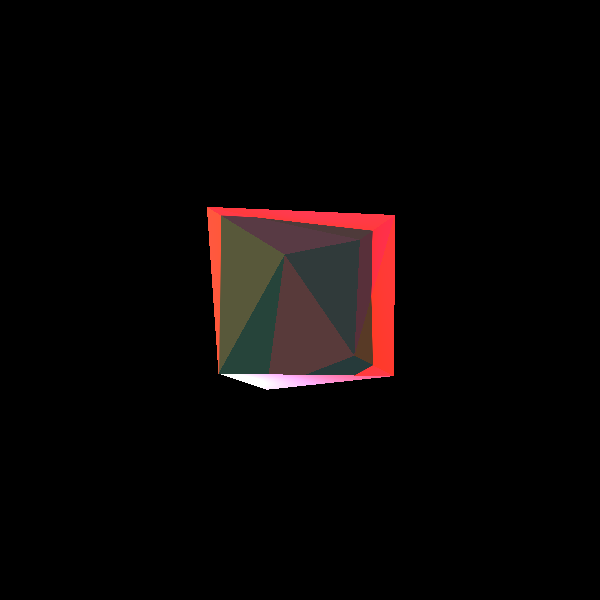
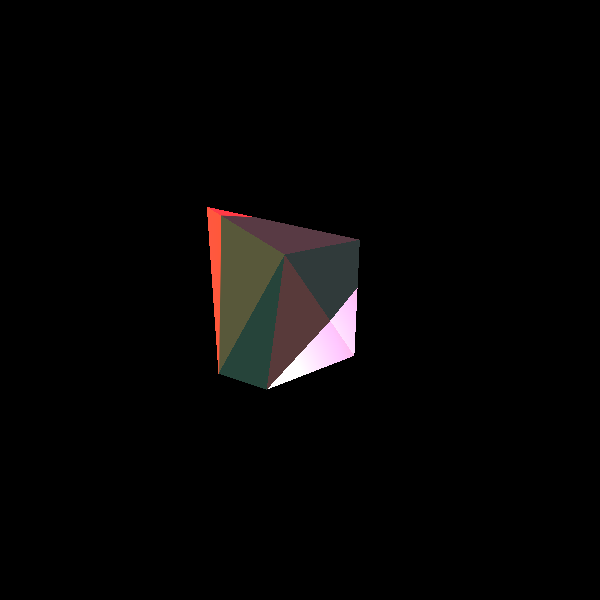
stage 8 fix

Changed region(s): [[0.36, 0.33, 0.66, 0.66]]

diff --git a/unitTests/MiniProj1/hotAirBaloon.java b/unitTests/MiniProj1/hotAirBaloon.java
@@ -4,6 +4,7 @@ import geometries.Sphere;
 import geometries.Triangle;
 import lighting.AmbientLight;
 import lighting.DirectionalLight;
+import lighting.PointLight;
 import lighting.SpotLight;
 import org.junit.jupiter.api.Test;
 import primitives.Color;
@@ -166,17 +167,23 @@ public class hotAirBaloon {
         C=new Point(C.getY()-2,C.getZ()-50,C.getX());
         Point C1=new Point(C.getX()-0.5,C.getY(),C.getZ());
         Point C2=new Point(C.getX(),C.getY(),C.getZ());
+        Point CBorderSide = new Point(C.getX()+0.3, C.getY(), C.getZ());
 
         D=new Point(D.getY(),D.getZ()-50,D.getX());
         Point D1=new Point(D.getX()+0.5,D.getY(),D.getZ());
+        Point DBorderSide = new Point(D.getX()-0.3, D.getY(), D.getZ());
 
-        F=new Point(F.getY(),F.getZ()-50, F.getX());
+
+        F=new Point(F.getY(),F.getZ()-50.5, F.getX());
         Point F1=new Point(F.getX()-0.5,F.getY(),F.getZ());
-        Point FBorder=new Point(F.getX(),F.getY()+0.5,F.getZ());
+        Point FBorder=new Point(F.getX(),F.getY()+0.4,F.getZ());
+        Point FBorderSide = new Point(F.getX()+0.3, F.getY(), F.getZ());
 
         G=new Point(G.getY(),G.getZ()-50, G.getX());
         Point G1=new Point(G.getX()+0.5,G.getY(),G.getZ());
-        Point GBorder=new Point(G.getX(),G.getY()+0.5,G.getZ());
+        Point GBorder=new Point(G.getX(),G.getY()+0.4,G.getZ());
+        Point GBorderSide = new Point(G.getX()-0.3, G.getY(), G.getZ());
+
 
 
         //FRONT RIGHT
@@ -194,35 +201,42 @@ public class hotAirBaloon {
         Triangle rLittle2T=new Triangle(rLittle2,F1,rLittle1);
         Triangle lLittle1T=new Triangle(lLittle1,lLittle2,G1);
         Triangle lLittle2T=new Triangle(G,G1,lLittle2);
-        Triangle borderR1=new Triangle(C,C1,F);
-        Triangle borderR2=new Triangle(F1,C1,F);
-        Triangle borderL1=new Triangle(G,G1,D1);
-        Triangle borderL2=new Triangle(G,D,D1);
+
+        Triangle borderR1=new Triangle(CBorderSide,C1,FBorderSide);
+        Triangle borderR2=new Triangle(F1,C1,FBorderSide);
+
+        Triangle borderL1=new Triangle(GBorderSide,G1,D1);
+        Triangle borderL2=new Triangle(GBorderSide,DBorderSide,D1);
+
         Triangle borderBack1=new Triangle(G,GBorder,F);
         Triangle borderBack2=new Triangle(F,FBorder,GBorder);
 
 
-
-
-
         scene4.geometries.add( //
-                T1.setMaterial(new Material().setkD(0.5).setkS(0.5).setnShininess(100)).setEmission(new Color(500, 20, 30)), //
+                T1.setMaterial(new Material().setkD(0.7).setkS(0.5).setnShininess(100)).setEmission(new Color(500, 20, 30)), //
+                T2.setMaterial(new Material().setkD(0.7).setkS(0.5).setnShininess(100)).setEmission(new Color(520, 40, 50)), //
 
-                T2.setMaterial(new Material().setkD(0.5).setkS(0.5).setnShininess(100)).setEmission(new Color(520, 40, 50)), //
-                T3.setMaterial(new Material().setkD(0.5).setkS(0.5).setnShininess(100)).setEmission(new Color(550, 70, 80)), //
-                T4.setMaterial(new Material().setkD(0.5).setkS(0.5).setnShininess(100)).setEmission(new Color(500, 20, 30)),
+                T3.setMaterial(new Material().setkD(0.4).setkS(0.5).setnShininess(100)).setEmission(new Color(550, 70, 80)), //
+                T4.setMaterial(new Material().setkD(0.4).setkS(0.5).setnShininess(100)).setEmission(new Color(500, 20, 30)),
+
                 L1.setMaterial(new Material().setkD(0.5).setkS(0.5).setnShininess(100)).setEmission(new Color(WHITE)),
                 L2.setMaterial(new Material().setkD(0.5).setkS(0.5).setnShininess(100)).setEmission(new Color(WHITE)),
+
                 R1.setMaterial(new Material().setkD(0.5).setkS(0.5).setnShininess(100)).setEmission(new Color(WHITE)),
                 R2.setMaterial(new Material().setkD(0.5).setkS(0.5).setnShininess(100)).setEmission(new Color(WHITE)),
-                borderR1.setMaterial(new Material().setkD(0.5).setkS(0.5).setnShininess(100)).setEmission(new Color(BLACK)), //
-                borderR2.setMaterial(new Material().setkD(0.5).setkS(0.5).setnShininess(100)).setEmission(new Color(BLACK)), //
-                borderL1.setMaterial(new Material().setkD(0.5).setkS(0.5).setnShininess(100)).setEmission(new Color(BLACK)), //
-                borderL2.setMaterial(new Material().setkD(0.5).setkS(0.5).setnShininess(100)).setEmission(new Color(BLACK)), //
-                borderBack1.setMaterial(new Material().setkD(0.5).setkS(0.5).setnShininess(100)).setEmission(new Color(BLACK)), //
-                borderBack2.setMaterial(new Material().setkD(0.5).setkS(0.5).setnShininess(100)).setEmission(new Color(BLACK)), //
+
+                borderR1.setMaterial(new Material().setkD(1.2).setkS(0.5).setnShininess(100)).setEmission(new Color(YELLOW)), //
+                borderR2.setMaterial(new Material().setkD(1.2).setkS(0.5).setnShininess(100)).setEmission(new Color(YELLOW)), //
+
+                borderL1.setMaterial(new Material().setkD(1.2).setkS(0.5).setnShininess(100)).setEmission(new Color(YELLOW)), //
+                borderL2.setMaterial(new Material().setkD(1.2).setkS(0.5).setnShininess(100)).setEmission(new Color(YELLOW)), //
+
+                borderBack1.setMaterial(new Material().setkD(0.5).setkS(0.5).setnShininess(100)).setEmission(new Color(YELLOW)), //
+                borderBack2.setMaterial(new Material().setkD(0.5).setkS(0.5).setnShininess(100)).setEmission(new Color(YELLOW)), //
+
                 rLittle1T.setMaterial(new Material().setkD(0.5).setkS(0.5).setnShininess(100)).setEmission(new Color(WHITE)),
                 rLittle2T.setMaterial(new Material().setkD(0.5).setkS(0.5).setnShininess(100)).setEmission(new Color(WHITE)),
+
                 lLittle1T.setMaterial(new Material().setkD(0.5).setkS(0.5).setnShininess(100)).setEmission(new Color(WHITE)),
                 lLittle2T.setMaterial(new Material().setkD(0.5).setkS(0.5).setnShininess(100)).setEmission(new Color(WHITE)),
 
@@ -231,10 +245,17 @@ public class hotAirBaloon {
                         .setMaterial(new Material().setkD(0.3).setkS(0.05).setnShininess(100).setkT(0.3))
 
                 );
-        scene4.lights.add(new  SpotLight(new Color(500, 600, 400),
+        scene4.lights.add(
+                new  SpotLight(new Color(500, 600, 400),
                         new Point(-100, -100, 500),
                         new Vector(-1, -1, -2)) //
-                        .setKl(0.0004).setKq(0.0000006));
+                        .setKl(0.0004).setKq(0.00000006));
+        scene4.lights.add(
+                new PointLight(new Color(BLUE), new Point(0,-20,0))
+        );
+
+
+
         ImageWriter imageWriter = new ImageWriter("TRY", 600, 600);
         camera.setImageWriter(imageWriter) //
                 .setRayTracer(new RayTracerBasic(scene4)) //
